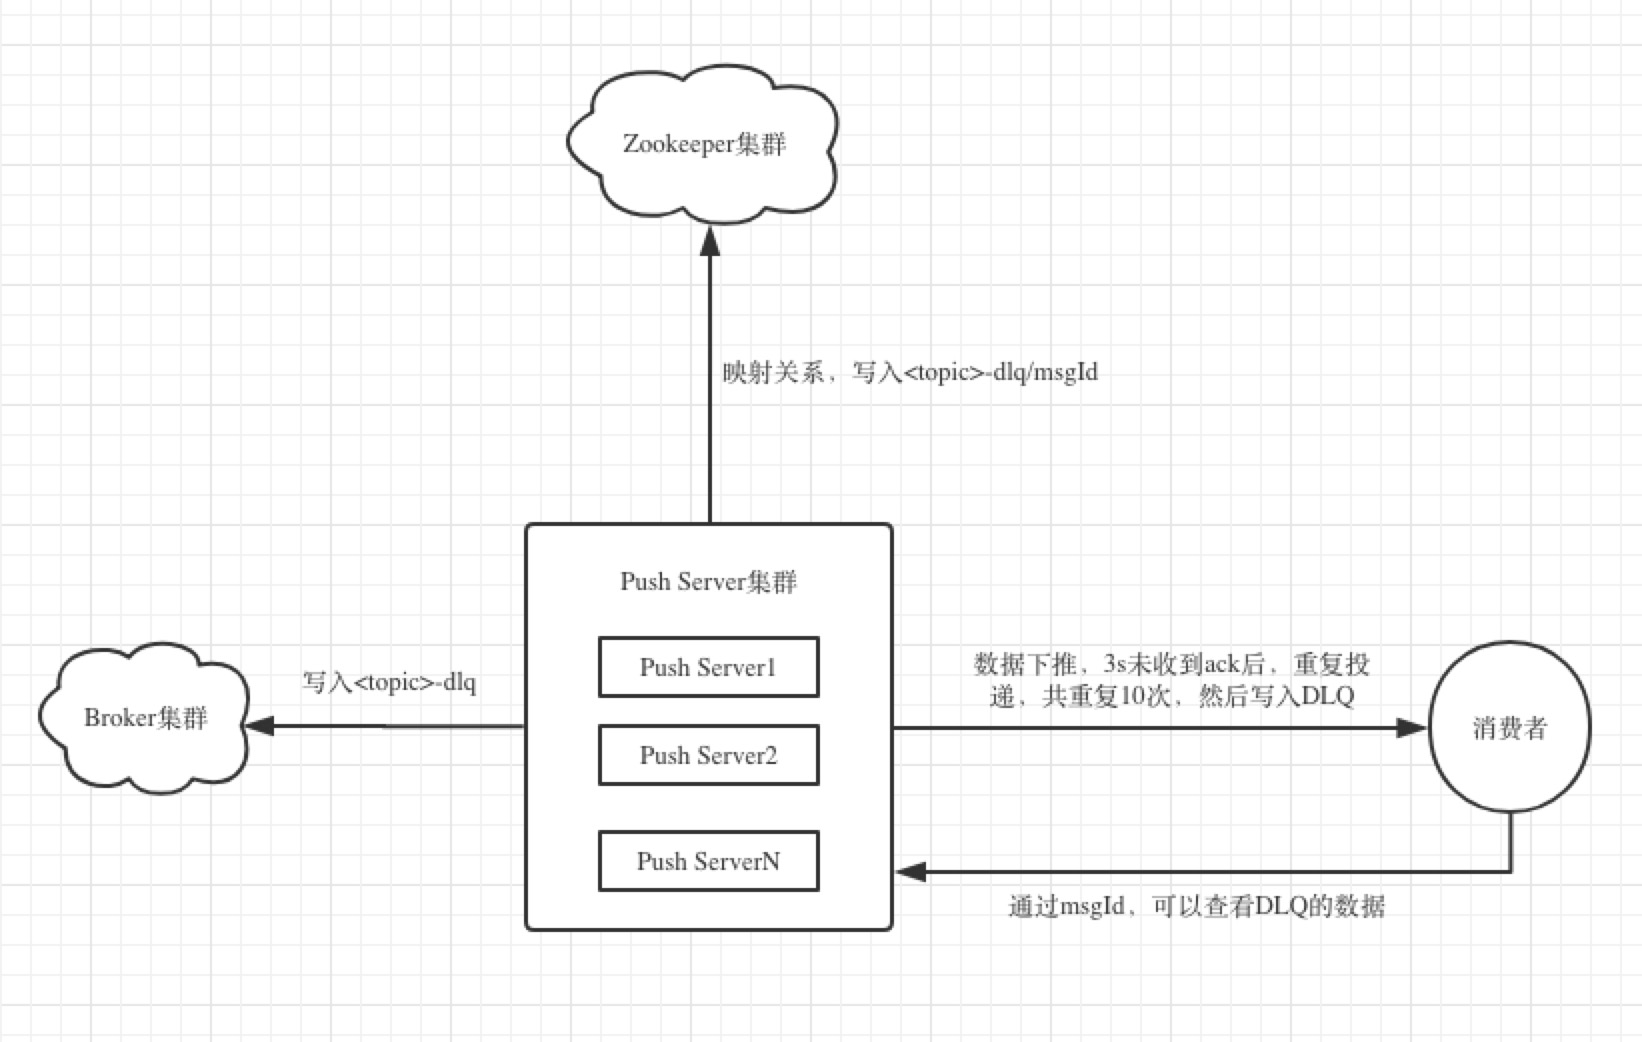
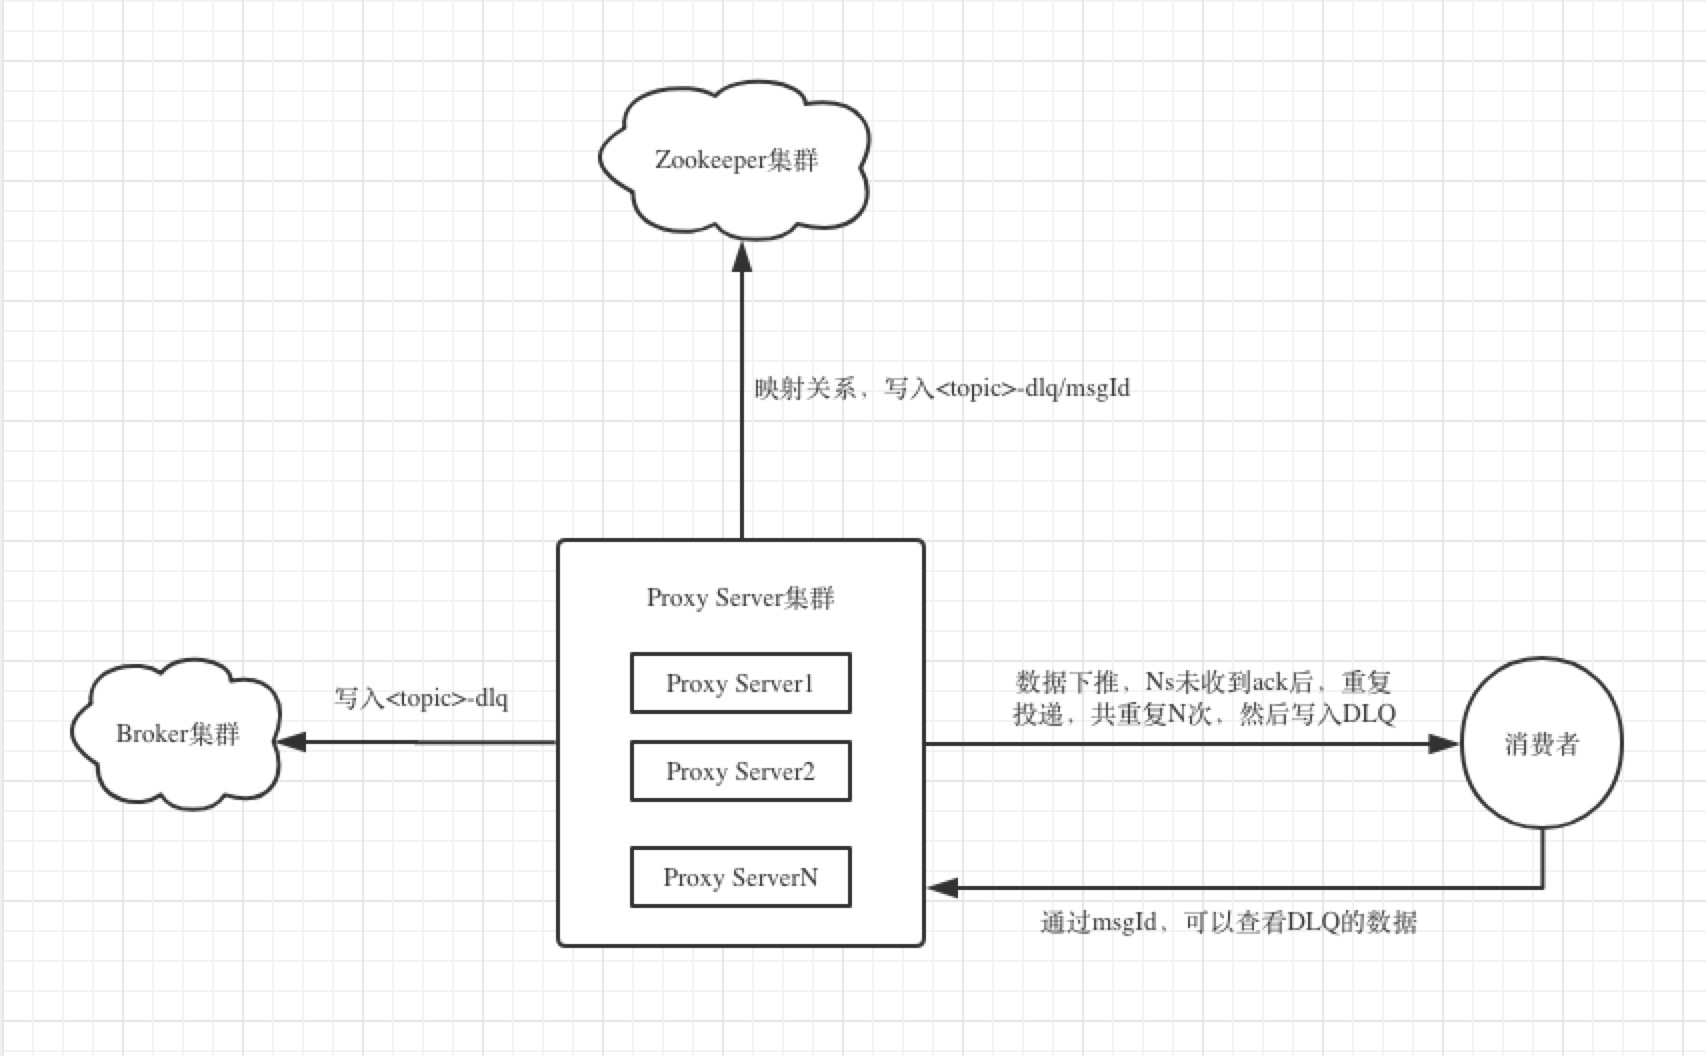
updates

Changed region(s): [[0.0, 0.0614, 0.9939, 0.9213]]

diff --git a/README.md b/README.md
@@ -1,26 +1,54 @@
-#### 一. 背景
+## 一. 背景
 - Kafka的consumer数和parition数存在C:P的关系，如果C<=P,当某C节点挂掉，发生rebalance后，势必造成存活的某台C节点消费压力增大或导致消息消费时延增大。因此，实际的线上，C可能会部署大于P的情况以防止类似情形发生。多余的C即为standby。
 另有情形下，少量的partiton数足以满足上游生产消息的速率，consumer的消费能力却成为瓶颈，因为consumer可能要处理更多的业务逻辑。如果想降低消息消费的延迟时间，只能扩大partion数量，进而增加consumer的数量，来增加消费能力，解决消息延迟性。
 因此，一种代理模式就出现了，即kafka-proxy-server模式，即解决了所有线上C都可以消费到消息，又无需增大parition数来增大消费能力的情形。
-- 当引入代理模式后，consumer和partiton形成解耦，且消息在proxy-server和client之间，可以加入重试队列，当消费失败后，可以在一定时间内重复收到消费失败的消息。
+- 引入proxy模式后，consumer和partiton形成解耦，且消息在proxy-server和client之间，可以加入重试队列，当消费失败后，可以在一定时间内重复收到消费失败的消息。
+- 引入proxy模式后，消息无序，因此只有分区无序的场景下，才可以使用此代理。
 
-#### 二. 设计图
+## 二. 设计图
 
 <img src="docs/static_files/proxy-server.jpeg"/>
 
 - Proxy Server： 即原生kafka的consumer，负责某些topic消息的拉取，分发。启动后，注册实例到zookeeper中。
 - 消费者： 根据配置的topic，consumerGroup，namespace，通过zookeeper，获取对应的Push Server节点地址，建立连接，并接受Proxy server推送的消息。
 
-#### 三. 快速使用
+## 三. 实现
+- proxy-server proxy-server即原生kafka的consumer，启动后，每个实例至少消费一个parition，并设置手动提交offset。启动并监听指定端口接受consumer的tcp链接，并将端口等信息写入zookeeper。
+  proxy-server每次拉取N多消息放入阻塞队列，当有consumer链接后，分发给consumer。所以，消息形成无序状态。
+- pull模型 消息者启动后，通过配置信息，从zookeeper获取push-server节点信息，并和所有push-server建立tcp链接，然后发送pull消息请求，每次请求最多10条，最大16M的消息。并间隔60s发送心跳给push-server维持连接。
+- push模型 消息启动后，通过配置信息，从zookeeper获取push-server节点信息，并和所有push-server建立tcp链接。然后，有push-server发送推送消息给consumer。
+  push模型存在一定的问题，即consumer数量小于proxy-server时，推模型可能会压死consumer，所以不建议使用push模型。默认才用pull模型实现。
+
+## 四. 快速使用
 
 - 工程依赖:
-JDK1.7或更高版本 
++ JDK1.7或更高版本
++ 依赖管理工具: Maven3.x版本
+- Maven依赖:
+```xml
+<dependency>
+<groupId>com.owl.kafka</groupId>
+<artifactId>kafka-proxy-server</artifactId>
+<version>1.0.0-SNAPSHOT</version>
+</dependency>
+```
 
-- 配置proxy server
+- proxy-server配置
+src/main/resources下的proxy-server.properties为代理服务器的配置文件。
+| 参数                             | 说明                                   |
+| --------------------------------|--------------------------------        |
+| server.kafka.server.list        | kafka的集群地址                          |
+| server.group.id                 | proxy-server的消费组信息                 |
+| server.topic                    | proxy-server消费的topic                 |
+| server.zookeeper.server.list    | proxy-server链接的zookeeper地址         |
+| server.queue.size               | proxy-server从kafka拉取多少消息到阻塞队列 |
+| server.port                     | proxy-server监听consumer的端口          |
+| server.commit.offset.interval   | proxy-server提交offset的间隔时间         |
+| server.commit.offset.batch.size | proxy-server提交offset的批次大小         |
+| 
+## 五. 关于DLQ
 
-
-#### 四. 关于DLQ
+- 原生的kafka不支持消息的重复投递以及多次投递后进入DLQ的功能。proxy-server下推消息后，如果Ns(N=3默认)后未收到ack，将重复投递，共投递N次(N=5默认)。N次消费后未收到ack后，将失败的消息写入kafka的主题为<topic>-dlq中。
+- 将失败消息的msgId和写入kafka的dlq中的offset的映射关系写入zk，后续可通过msgId查看DLQ消息。
 <img src="docs/static_files/DLQ.jpg"/>
 
-- proxy-server下推消息后，如果3s后未收到ack，将重复投递，共投递10次。10次后，将投递失败的消息写入kafka的主题为<topic>-dlq中。
-- 将失败消息的msgId和写入kafka的dlq中的offset的映射关系写入zk，后续可通过msgId查看DLQ消息。
